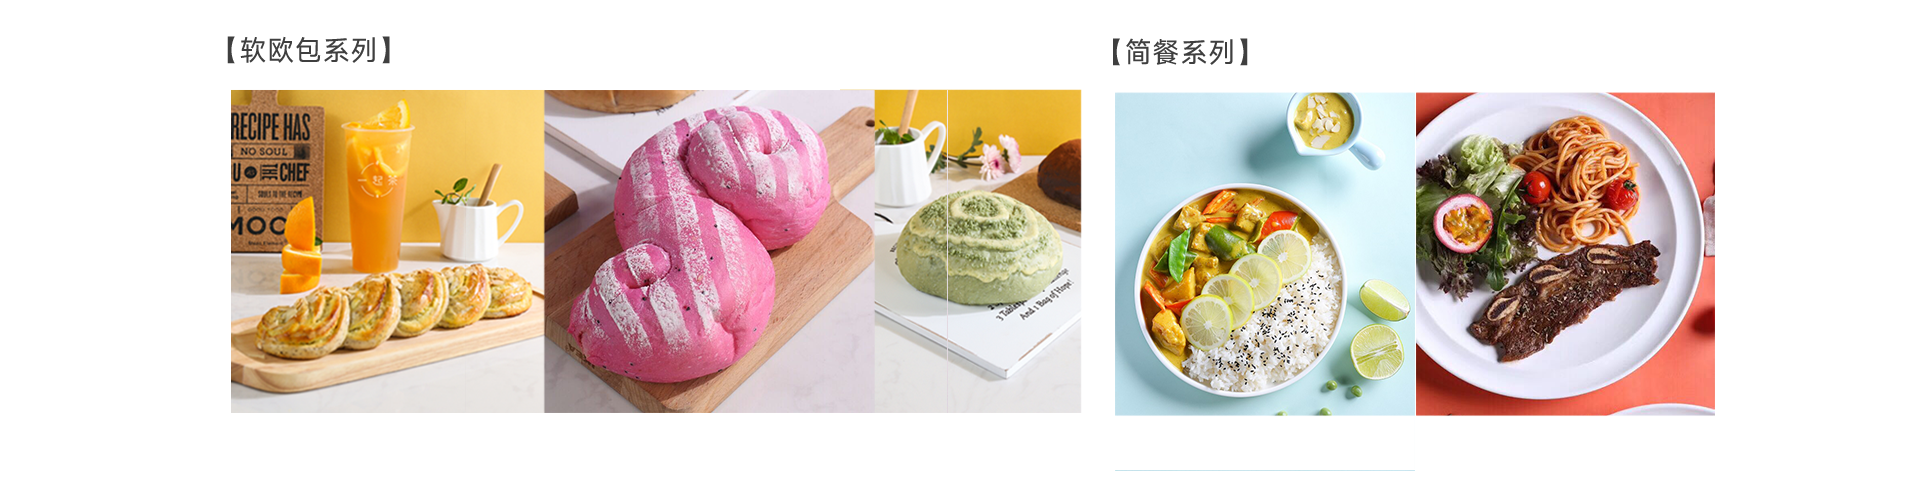
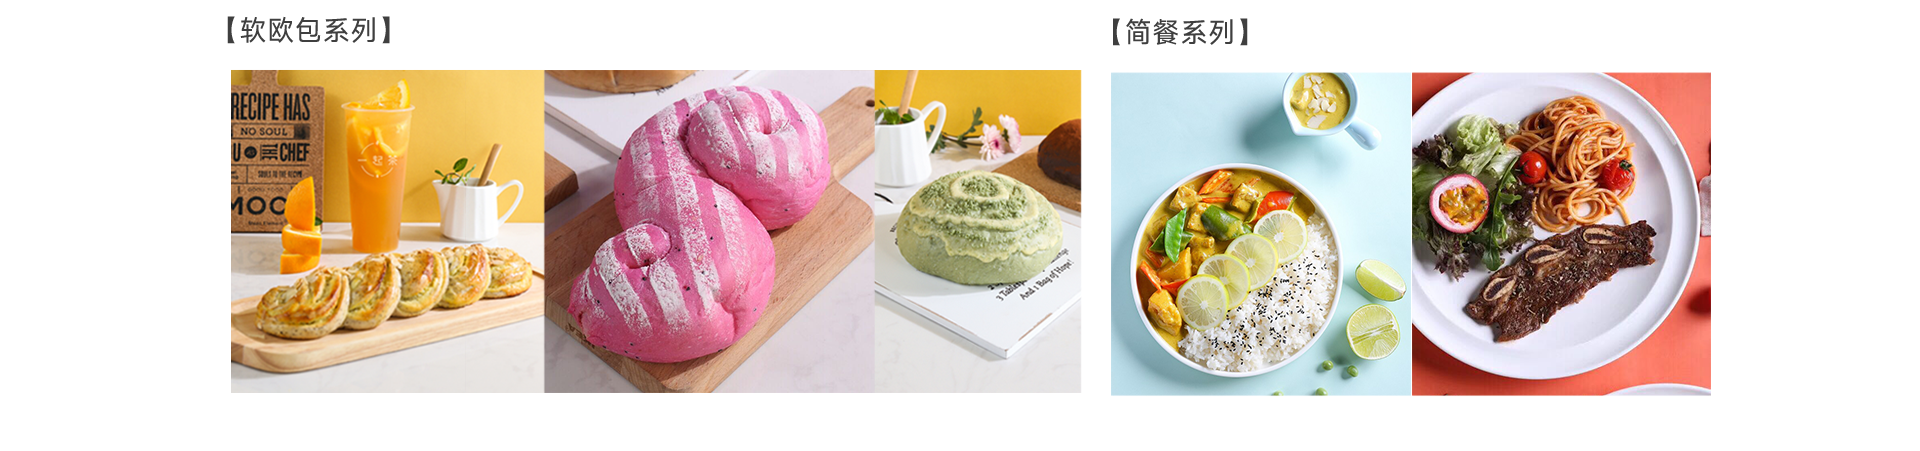
1

Changed region(s): [[0.0938, 0.031, 0.9062, 0.9002], [0.125, 0.031, 0.2188, 0.1242]]

diff --git a/tpl/Wap/Index/yqc.php b/tpl/Wap/Index/yqc.php
@@ -6,7 +6,7 @@
 <meta http-equiv="Content-Type" content="text/html; charset=utf-8">
 <link rel="stylesheet" type="text/css" href="{$static_path}css/style.css"/>
 </head>
-<style>	
+<style> 
 *{border: 0;margin:0;padding:0;}
 .img{border: 0;vertical-align:middle;width: 100%}
 .img img{border: 0;vertical-align:middle;width: 100%;}
@@ -26,9 +26,9 @@ ul, ol, li{list-style:none;}
 <body>
             <div id="banner_box1" class="box_swipe">
                 <ul>
-                	                     <li> <a onClick="return false;"> <img src="{$static_path}images/wap_1.jpg" alt="1" style="width:100%;" /> </a> </li>
-                	                     <li> <a onClick="return false;"> <img src="{$static_path}images/wap_2.jpg" alt="1" style="width:100%;" /> </a> </li>
-                	                     <li> <a onClick="return false;"> <img src="{$static_path}images/wap_3.jpg" alt="1" style="width:100%;" /> </a> </li>
+                                         <li> <a onClick="return false;"> <img src="{$static_path}images/wap_1.jpg" alt="1" style="width:100%;" /> </a> </li>
+                                         <li> <a onClick="return false;"> <img src="{$static_path}images/wap_2.jpg" alt="1" style="width:100%;" /> </a> </li>
+                                         <li> <a onClick="return false;"> <img src="{$static_path}images/wap_3.jpg" alt="1" style="width:100%;" /> </a> </li>
                     
                                     
                 </ul>
@@ -52,43 +52,44 @@ ul, ol, li{list-style:none;}
                 </script>
 
 <div class="img">
-	
-	<img src="{$static_path}wap/1_02.png"   alt="">
-	<img src="{$static_path}wap/1_03.png"   alt="">
-	<img src="{$static_path}wap/1_04.png"   alt="">
-	<img src="{$static_path}wap/1_05.png"   alt="">
-	<img src="{$static_path}wap/1_06.png"   alt="">
-	<img src="{$static_path}wap/1_07.png"   alt="">
-	<img src="{$static_path}wap/1_08.png"   alt="">
-	<img src="{$static_path}wap/1_09.png"   alt="">
-	<img src="{$static_path}wap/1_10.png"   alt="">
-	<div class="dt"><div class="dt1"><img src="{$static_path}images/1.gif" alt=""></div></div>
-	<img src="{$static_path}wap/1_12.png"   alt="">
-	<img src="{$static_path}wap/1_13.png"   alt="">
-	<img src="{$static_path}wap/1_14.png"   alt="">
-	<img src="{$static_path}wap/1_15.png"   alt="">
-	<img src="{$static_path}wap/1_16.png"   alt="">
-	<img src="{$static_path}wap/1_17.png"   alt="">
-	<img src="{$static_path}wap/1_18.png"   alt="">
-	<img src="{$static_path}wap/1_19.png"   alt="">
-	<img src="{$static_path}wap/1_20.png"   alt="">
-	<img src="{$static_path}wap/1_21.png"   alt="">
-	<img src="{$static_path}wap/1_22.png"   alt="">
-	<img src="{$static_path}wap/1_23.png"   alt="">
-	<img src="{$static_path}wap/1_24.png"   alt="">
-	<div class="dt"><div class="dt1" style="margin-bottom: 200px;"><img src="{$static_path}images/1.gif" alt=""></div></div>
-	<img src="{$static_path}wap/1_26.png"   alt="">
-	<img src="{$static_path}wap/1_27.png"   alt="">
-	<img src="{$static_path}wap/1_28.png"   alt="">
-	<img src="{$static_path}wap/1_29.png"   alt="">
-	<img src="{$static_path}wap/1_30.png"   alt="">
-	<img src="{$static_path}wap/1_31.png"   alt="">
-	<img src="{$static_path}wap/1_32.png"   alt="">
-	<img src="{$static_path}wap/1_33.png"   alt="">
-	<img src="{$static_path}wap/1_34.png"   alt="">
-	<img src="{$static_path}wap/1_35.png"   alt="">
-	<img src="{$static_path}wap/1_36.png"   alt="">
-	<div class="dt"><div class="dt1" style="margin-bottom: 200px;"><img src="{$static_path}images/1.gif" alt=""></div></div>
+    
+    <img src="{$static_path}wap/1_02.png"   alt="">
+    <img src="{$static_path}wap/1_03.png"   alt="">
+    <img src="{$static_path}wap/1_04.png"   alt="">
+    <img src="{$static_path}wap/1_05.png"   alt="">
+    <img src="{$static_path}wap/1_06.png"   alt="">
+    <img src="{$static_path}wap/1_38.png"   alt="">
+    <img src="{$static_path}wap/1_07.png"   alt="">
+    <img src="{$static_path}wap/1_08.png"   alt="">
+    <img src="{$static_path}wap/1_09.png"   alt="">
+    <img src="{$static_path}wap/1_10.png"   alt="">
+    <div class="dt"><div class="dt1"><img src="{$static_path}images/1.gif" alt=""></div></div>
+    <img src="{$static_path}wap/1_12.png"   alt="">
+    <img src="{$static_path}wap/1_13.png"   alt="">
+    <img src="{$static_path}wap/1_14.png"   alt="">
+    <img src="{$static_path}wap/1_15.png"   alt="">
+    <img src="{$static_path}wap/1_16.png"   alt="">
+    <img src="{$static_path}wap/1_17.png"   alt="">
+    <img src="{$static_path}wap/1_18.png"   alt="">
+    <img src="{$static_path}wap/1_19.png"   alt="">
+    <img src="{$static_path}wap/1_20.png"   alt="">
+    <img src="{$static_path}wap/1_21.png"   alt="">
+    <img src="{$static_path}wap/1_22.png"   alt="">
+    <img src="{$static_path}wap/1_23.png"   alt="">
+    <img src="{$static_path}wap/1_24.png"   alt="">
+    <div class="dt"><div class="dt1" style="margin-bottom: 200px;"><img src="{$static_path}images/1.gif" alt=""></div></div>
+    <img src="{$static_path}wap/1_26.png"   alt="">
+    <img src="{$static_path}wap/1_27.png"   alt="">
+    <img src="{$static_path}wap/1_28.png"   alt="">
+    <img src="{$static_path}wap/1_29.png"   alt="">
+    <img src="{$static_path}wap/1_30.png"   alt="">
+    <img src="{$static_path}wap/1_31.png"   alt="">
+    <img src="{$static_path}wap/1_32.png"   alt="">
+    <img src="{$static_path}wap/1_33.png"   alt="">
+    <img src="{$static_path}wap/1_34.png"   alt="">
+    <img src="{$static_path}wap/1_35.png"   alt="">
+    <img src="{$static_path}wap/1_36.png"   alt="">
+    <div class="dt"><div class="dt1" style="margin-bottom: 200px;"><img src="{$static_path}images/1.gif" alt=""></div></div>
 
 </div>
 
@@ -97,9 +98,9 @@ ul, ol, li{list-style:none;}
 var _hmt = _hmt || []; (function() { var hm = document.createElement("script"); hm.src = "https://hm.baidu.com/hm.js?ea0937658be71b7104bc3e1785d7410d"; var s = document.getElementsByTagName("script")[0]; s.parentNode.insertBefore(hm, s); })(); </script> 
 <script type="text/javascript" charset="utf-8" async src="http://lxbjs.baidu.com/lxb.js?sid=11796862"></script>
 <script type="text/javascript">
-	$(".img").click(function(){
-		get_chat_event('advice');
-	});
+    $(".img").click(function(){
+        get_chat_event('advice');
+    });
 </script>
 </body>
 </html>

diff --git a/tpl/Index/Index/yqc.php b/tpl/Index/Index/yqc.php
@@ -108,6 +108,7 @@
 <div class="ny_banner1" ><a href="javascript:;" ><img src="{$static_path}pc/2_04.png" alt=""></a></div> 
 <div class="ny_banner1" ><a href="javascript:;" ><img src="{$static_path}pc/2_05.png" alt=""></a></div> 
 <div class="ny_banner1" ><a href="javascript:;" ><img src="{$static_path}pc/2_06.png" alt=""></a></div> 
+<div class="ny_banner1" ><a href="javascript:;" ><img src="{$static_path}pc/2_12.png" alt=""></a></div> 
 <div class="ny_banner1" ><a href="javascript:;" ><img src="{$static_path}pc/2_07.png" alt=""></a></div> 
 <div class="ny_banner1" ><a href="javascript:;" ><img src="{$static_path}pc/2_08.png" alt=""></a></div> 
 <div class="ny_banner1" ><a href="javascript:;" ><img src="{$static_path}pc/2_09.png" alt=""></a></div> 
@@ -137,8 +138,9 @@
 <div class="w16  clearfix" style="width: 1152px;" >
       <img src="{$static_path}pc/2_25.png" alt="">
       <img src="{$static_path}pc/2_27.png" alt="">
-      <img src="{$static_path}pc/2_29.png" alt="">
       <div class="dt2"><img src="{$static_path}images/1.gif" alt=""></div>
+      <img src="{$static_path}pc/2_29.png" alt="">
+      
       <img src="{$static_path}pc/2_30.png" alt="">
       <img src="{$static_path}pc/2_31.png" alt="">
       <img src="{$static_path}pc/2_32.png" alt="">

diff --git a/tpl/Index/Index/wap.php b/tpl/Index/Index/wap.php
@@ -58,6 +58,7 @@ ul, ol, li{list-style:none;}
 	<img src="{$static_path}wap/1_04.png"   alt="">
 	<img src="{$static_path}wap/1_05.png"   alt="">
 	<img src="{$static_path}wap/1_06.png"   alt="">
+    <img src="{$static_path}wap/1_38.png"   alt="">
 	<img src="{$static_path}wap/1_07.png"   alt="">
 	<img src="{$static_path}wap/1_08.png"   alt="">
 	<img src="{$static_path}wap/1_09.png"   alt="">
